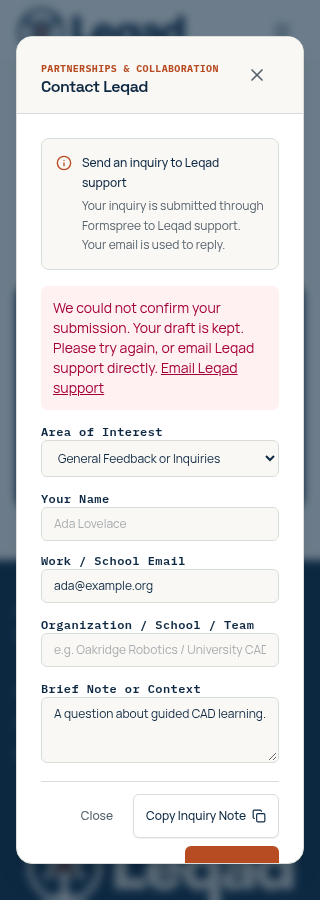
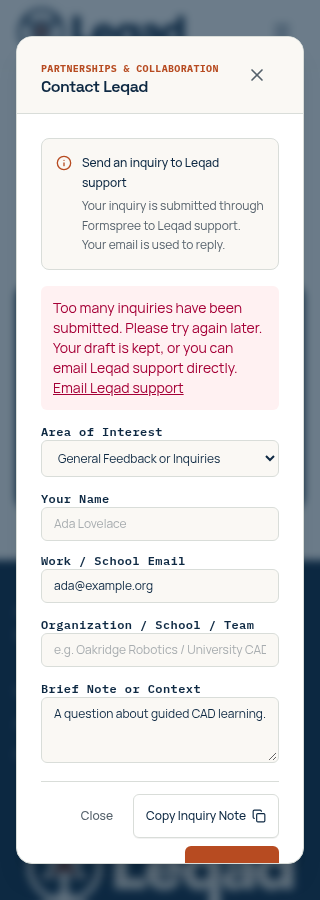
docs: record rebased response-contract validation

Changed region(s): [[0.1562, 0.3111, 0.8125, 0.4356]]

diff --git a/docs/formspree-pr.md b/docs/formspree-pr.md
@@ -1,22 +1,17 @@
-# Send website inquiries directly through Formspree
+# Submit inquiries with the verified Formspree response contract
 
-Branch: `feat/formspree-inquiries`, based on latest main `3efe2ad`.
+Branch `fix/formspree-response-contract` targets latest main `7efe606`. The rebase completed without conflicts and includes the original unmerged Formspree integration.
 
-[Create the PR](https://github.com/anandanikait-bot/Leqad-website/pull/new/feat/formspree-inquiries)
+[Create the PR](https://github.com/anandanikait-bot/Leqad-website/pull/new/fix/formspree-response-contract)
 
-GitHub API PR creation returned `Post "https://api.github.com/graphql": Forbidden`. The branch is pushed; no PR was created automatically. Nothing was merged or deployed.
+Submit website inquiries directly to the owner-approved Formspree endpoint, with confirmation based on Formspree’s actual `{ next: string }` success schema. The previous `ok: true` assumption could report failure after acceptance. HTTP errors, malformed bodies, and error-bearing payloads remain failures; HTTP 429 now explicitly asks the visitor to try again later and retains the draft.
 
----
+Rebased onto main at `7efe606`, including the responsive and CAD scrolling fixes, without conflicts. This branch also includes the preceding Formspree integration because its feature branch has not been merged.
 
-Replace the email-app handoff with direct inquiry submission to the owner-provided Formspree endpoint. The existing React form sends all inquiry fields, prevents duplicate clicks while pending, and shows success only after Formspree accepts the request. Errors retain the draft and offer retry/direct-email fallback; copy recovery remains available.
+Validation includes TypeScript, ESLint, unit/build checks, the complete browser suite, and 15 mocked success/error/ready accessibility states. External requests are mocked to avoid creating test inquiries. Official response verification is pinned in the integration notes; live mailbox delivery is not claimed.
 
-No new dependencies or hosting backend are required. No website redesign, deployment, or merge.
+- [Official response references and integration notes](docs/formspree-integration.md)
+- [Error state](docs/screenshots/formspree/error-375.png)
+- [Success state](docs/screenshots/formspree/success-375.png)
 
-Validation includes TypeScript, ESLint, unit/build checks, all 127 browser tests, and 15 mocked ready/success/error accessibility and responsive states across five widths. The service is intercepted in tests so no real inquiries are created.
-
-- [Integration and validation](docs/formspree-integration.md)
-- [Mobile form](docs/screenshots/formspree/ready-375.png)
-- [Mocked success](docs/screenshots/formspree/success-375.png)
-- [Mocked error](docs/screenshots/formspree/error-375.png)
-
-After the approved deployment, verify one real submission in the intended private Formspree account and confirm Gmail notifications. Formspree account forwarding, live CORS/CSP and actual inbox delivery were not verified locally.
+No merge or deployment.

diff --git a/docs/formspree-integration.md b/docs/formspree-integration.md
@@ -42,3 +42,5 @@ Verified against the official `@formspree/core` 4.0.0 distribution and Formspree
 The website requires an HTTP success plus that response shape, rejects error-bearing payloads and unexpected bodies, and stays in the dialog rather than navigating to `next`. HTTP 429 now explicitly asks visitors to try again later, preserves their draft and offers direct email. There is no automatic retry.
 
 Regression fixtures now use the verified `{ "next": "/thanks" }` format. The success and 429 tests failed against the prior implementation before the fix. Additional tests reject the former invented `ok`-only fixture, a non-string `next`, and success-shaped JSON containing errors. Verification used official source and mocked browser responses; it did not create a real inquiry or establish live Gmail delivery.
+
+Rebased validation on main `7efe606`: TypeScript, ESLint, build, 24 unit tests and all 136 browser tests passed. All 15 refreshed form-state accessibility/overflow checks passed. No conflicts required resolution. The screenshot fixtures now use the verified service response.
